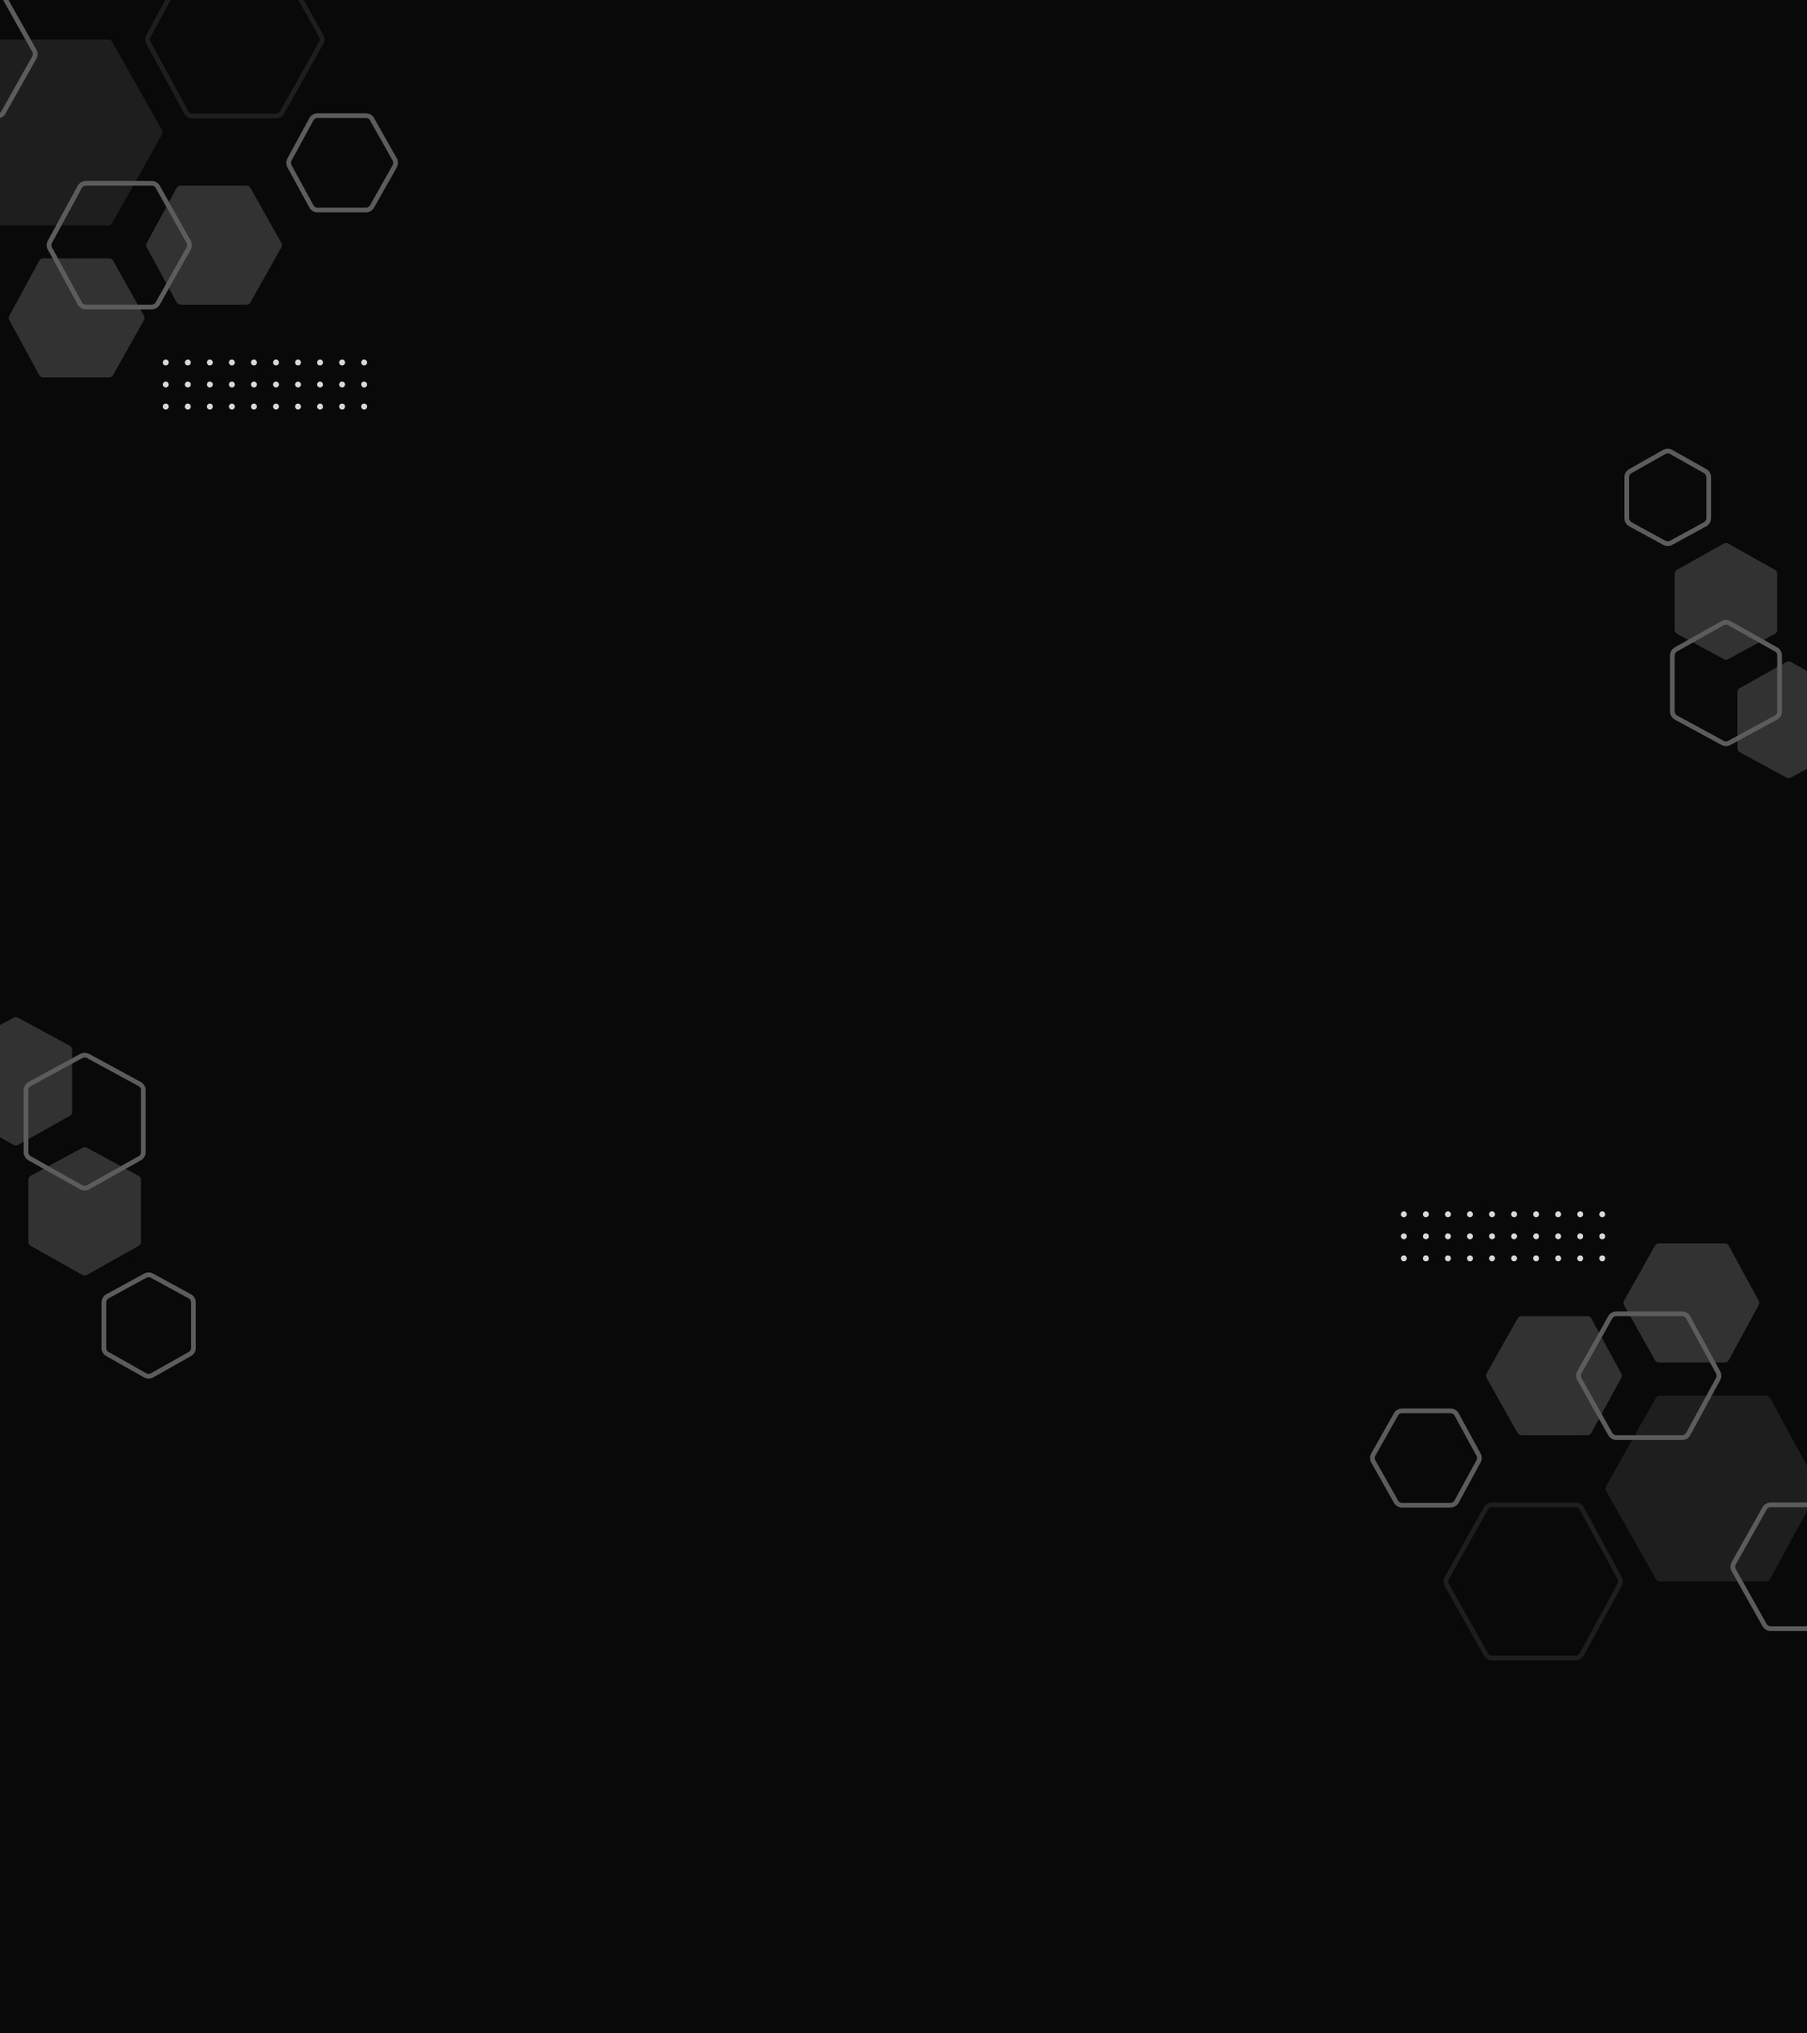
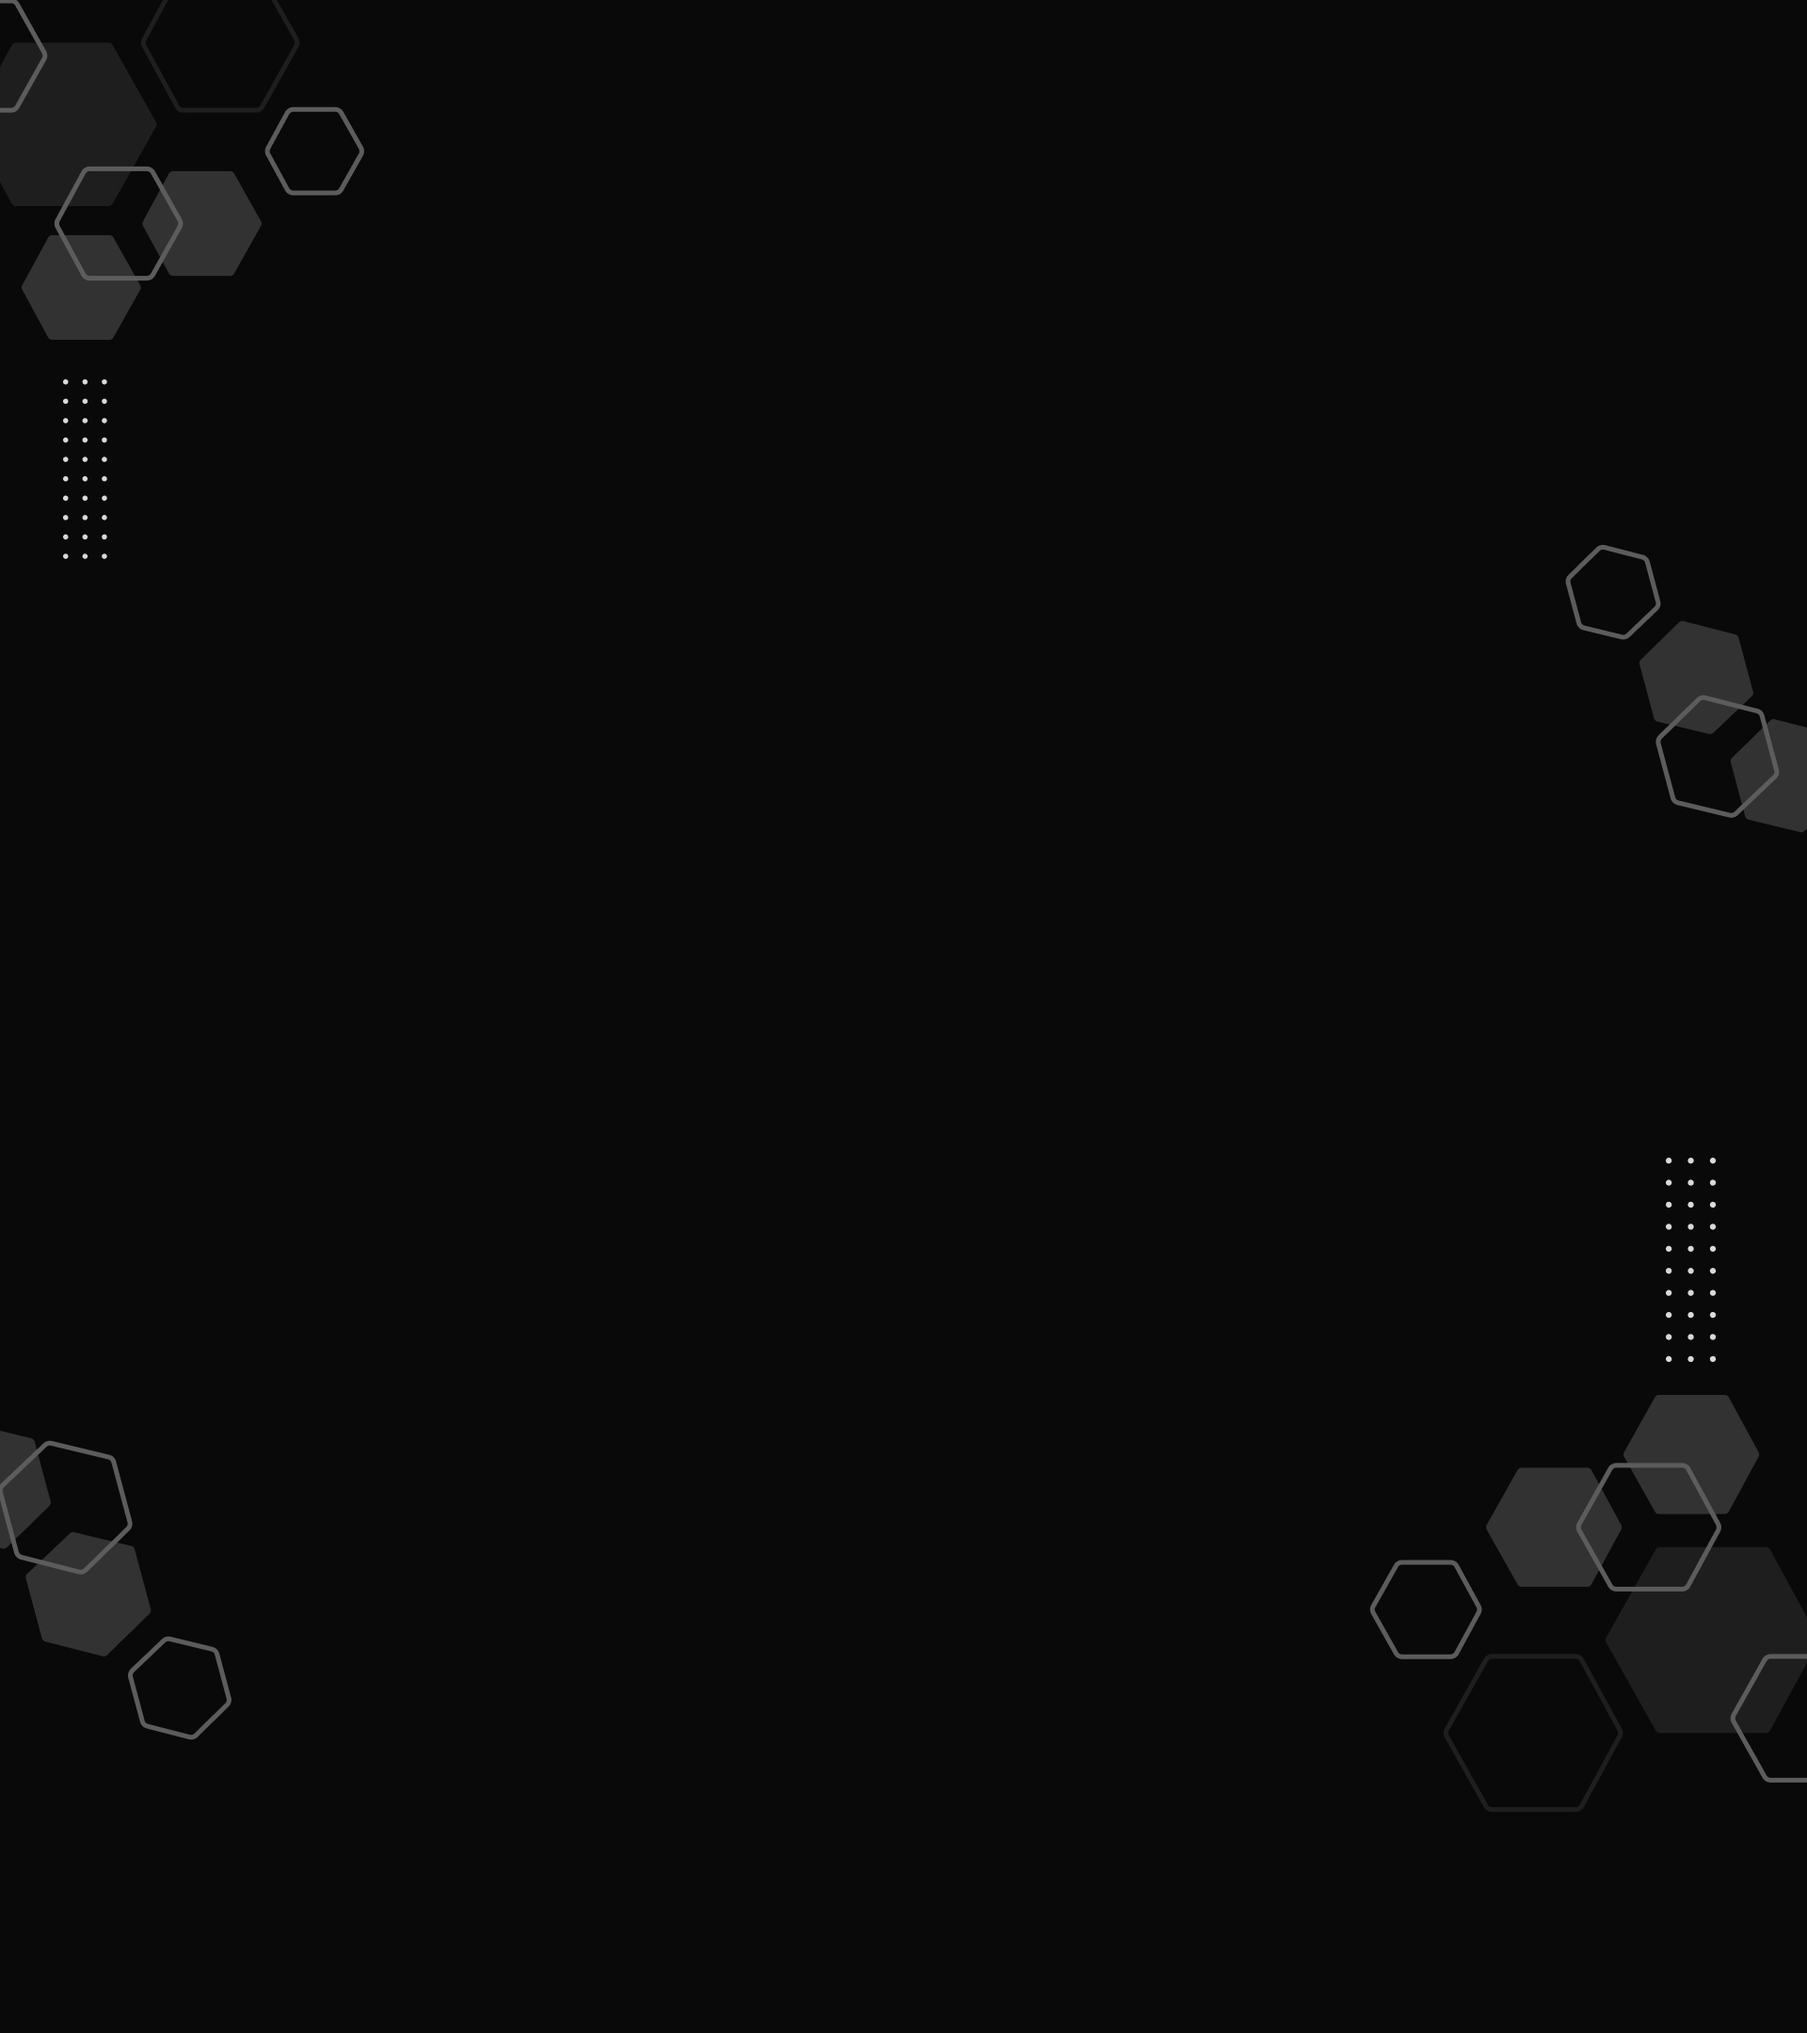
new

diff --git a/css/style.css b/css/style.css
@@ -11,17 +11,19 @@
   font-family: "Poppins", sans-serif;
 }
 :root {
-  --bg-color: #1c1e22;
+  --bg-color: #090909;
   --second-bg-color: #131313;
   --text-color: white;
   --main-color: #616e77;
 }
 body {
   background-color: var(--bg-color);
-  background-image: url("../img/bg_main.jpg");
+  background-image: url("../img/bgm.jpg");
   background-size: cover;
+  background-position: center;
   min-height: 100vh;
 }
+
 /*--------header--------*/
 
 .navbar {
@@ -103,7 +105,7 @@ span {
 .main h2 {
   color: var(--text-color);
   font-weight: 700;
-  font-size: 1.8rem;
+  font-size: 1.5rem;
 }
 .main h2 span {
   color: var(--main-color);
@@ -112,7 +114,6 @@ span {
 .main p.title {
   font-size: 2.7rem;
   font-weight: 600;
-  color: var(--text-color);
   margin-top: 0.5rem;
 }
 .main p.subtitle {
@@ -134,11 +135,36 @@ span {
 }
 /*--------text animation--------*/
 
+.home {
+  text-align: center;
+  position: relative;
+  z-index: 2;
+}
+.home p {
+  margin: 0;
+  overflow: hidden;
+}
+.home p span {
+  font-size: 28px;
+  color: var(--main-color);
+  font-weight: 700;
+  display: inline-block;
+  line-height: 46px;
+  display: none;
+}
 .title span {
   position: relative;
 }
-.title span::before {
-  content: "UI & UX DESINGER";
+.title span.text-in {
+  display: block;
+  animation: textIn 0.5s ease;
+}
+.title span.text-out {
+  display: block;
+  animation: textOut 0.5s ease;
+}
+/*.title span::before {
+  content: attr(span);
   color: var(--main-color);
   animation: words 20s infinite;
 }
@@ -148,16 +174,32 @@ span {
   position: absolute;
   width: calc(100% + 8px);
   height: 100%;
-  border-left: 3px solid var(--bg-color);
+  border-left: 3px solid transparent var(--bg-color);
   right: -8px;
   animation: cursor 0.6s infinite, typing 20s infinite;
-}
-/*@keyframes cursor{
-    to{
-        border-left: 2px solid var(--main-color);
-    }
 }*/
-@keyframes words {
+/*@keyframes cursor {
+  to {
+    text-decoration: underline solid var(--main-color);
+  }
+}*/
+@keyframes textIn {
+  0% {
+    transform: translateY(100%);
+  }
+  100% {
+    transform: translateY(0%);
+  }
+}
+@keyframes textOut {
+  0% {
+    transform: translateY(0%);
+  }
+  100% {
+    transform: translateY(-100%);
+  }
+}
+/*@keyframes words {
   0%,
   20% {
     content: "UI & UX DESIGNER";
@@ -203,7 +245,7 @@ span {
   85% {
     width: calc(100% + 8px);
   }
-}
+}*/
 
 /*--------more info--------*/
 

diff --git a/index.html b/index.html
@@ -40,8 +40,16 @@
         <div class="main">
             <h2>Hi, It's <span>THANGCHIV</span></h2>
             <div class="underline"></div>
-            <p class="title"><span></span></p>
-            <p class="subtitle">This is my personal prortfolio, If you Looking for UI & UX Designer who works hard but stay humble, please contact me. i love to join with your team.</p>
+            <div class="home">
+                <p class="title">
+                    <span>UI & UX DESIGNER</span>
+                    <span>MOBILE APP DESIGNER</span>
+                    <span>WEB DESIGNER</span>
+                    <span>GRAPHIC DESIGNER</span>
+                </p>
+            </div>
+           
+            <p class="subtitle">This is my personal Portfolio, If you Looking for UI & UX Designer who works hard but stay humble, please contact me. i love to join with your team.</p>
             <img src="./img/1.jpg"/>
         </div>   
         

diff --git a/js/script.js b/js/script.js
@@ -15,8 +15,38 @@ document.addEventListener("DOMContentLoaded", function () {
   };
 
   const spawnParticles = () => {
-    setInterval(createParticle, 150);
+    setInterval(createParticle, 20);
   };
 
   spawnParticles();
 });
+
+/*--------text animation--------*/
+
+const txts = document.querySelector(".title").children,
+  txtsLen = txts.length;
+let index = 0;
+const textInTimer = 3000,
+  textOutTimer = 2800;
+
+function animateText() {
+  for (let i = 0; i < txtsLen; i++) {
+    txts[i].classList.remove("text-in", "text-out");
+  }
+  txts[index].classList.add("text-in");
+
+  setTimeout(function () {
+    txts[index].classList.add("text-out");
+  }, textOutTimer);
+
+  setTimeout(function () {
+    if (index == txtsLen - 1) {
+      index = 0;
+    } else {
+      index++;
+    }
+    animateText();
+  }, textInTimer);
+}
+
+window.onload = animateText;

diff --git a/css/bg-animation.css b/css/bg-animation.css
@@ -21,8 +21,8 @@
     transform: translateY(0) translateX(0);
     opacity: 0.3;
   }
-  100% {
-    transform: translateY(-30vh) translateX(calc(-30vw + 50%));
+  50% {
+    transform: translateY(50vh) translateX(calc(-30vw + 1%));
     opacity: 0;
   }
 }

diff --git a/css/resposive.css b/css/resposive.css
@@ -109,14 +109,6 @@
         display: none;
     }*/
 
-  .main h2 {
-    font-size: 26px;
-  }
-
-  .main p.title {
-    font-size: 36px;
-  }
-
   /*.main p.subtitle{
         font-size: 16px;
     }*/
